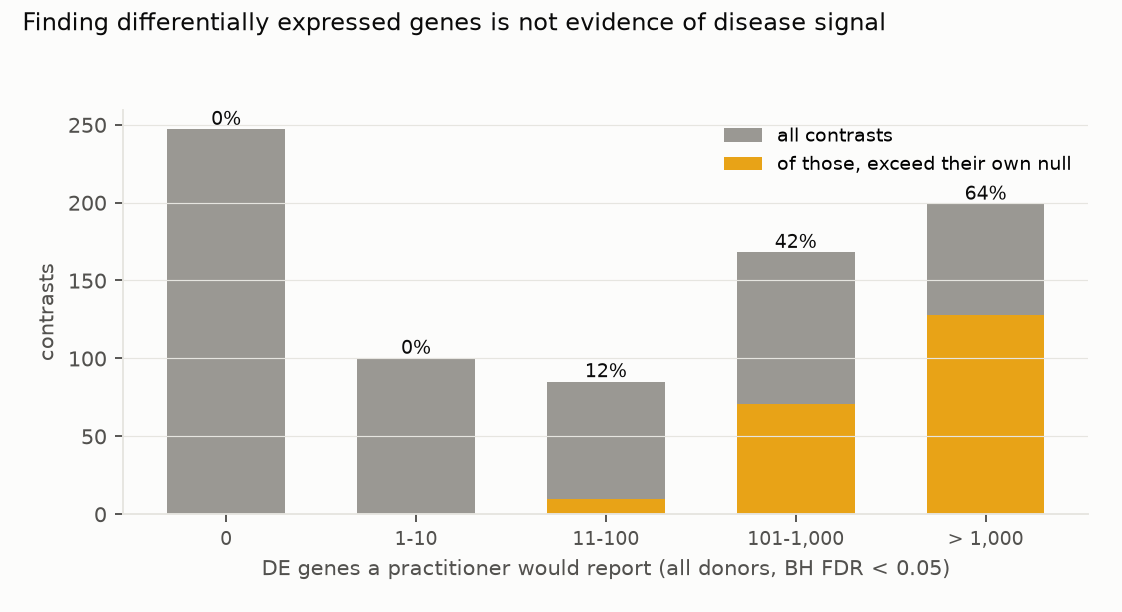
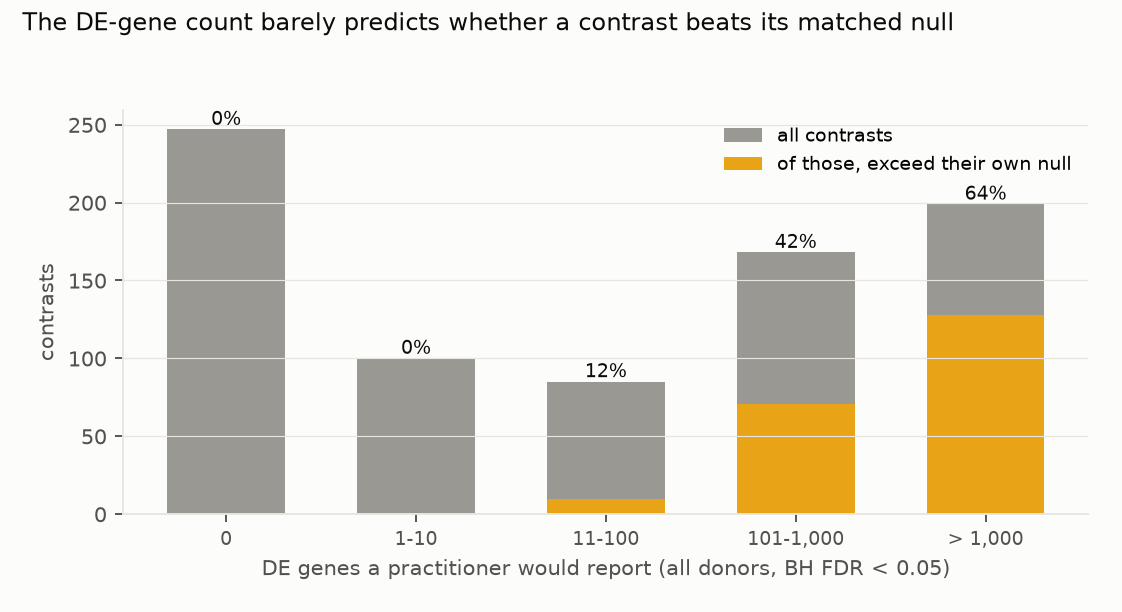
research-lab: bioinformatics-sc-disease-de-negative-control - draft for review (H1 Supported 74%/82%; H2 Inconclusive); G3 positive control: the sex comparison gives 219 DE genes, detected by the DE-gene count (p 0.005) and missed by pi1 (p 0.25); matched-size framing hedged after tracing; G5 42 row
Claude-Session: https://claude.ai/code/session_01F4XU94RLz4kFVSs5LcJjTK

Changed region(s): [[0.0, 0.0, 0.8422, 0.0621]]

diff --git a/research-lab/runs/bioinformatics-sc-disease-de-negative-control/code/figures.py b/research-lab/runs/bioinformatics-sc-disease-de-negative-control/code/figures.py
@@ -84,12 +84,14 @@ def f2(d):
     ax.set_xlabel("DE genes a practitioner would report (all donors, BH FDR < 0.05)")
     ax.set_ylabel("contrasts"); ax.grid(axis="y", color=GRID, lw=0.5)
     ax.legend(frameon=False, fontsize=8, loc="upper right")
-    fig.suptitle("Finding differentially expressed genes is not evidence of disease signal", x=0.02, ha="left",
+    fig.suptitle("The DE-gene count barely predicts whether a contrast beats its matched null", x=0.02, ha="left",
                  fontsize=10, color=INK)
     fig.savefig(F / "F2_practitioner.png", dpi=170); plt.close(fig)
-    caption("F2_practitioner", """Grey: contrasts by the number of DE genes the full-size comparison reports, as a
-    practitioner would run it. Orange: how many of those also exceed their own matched healthy-vs-healthy null
-    (BH q < 0.05). The percentage above each bar is the share that does.""")
+    caption("F2_practitioner", """Grey: contrasts by the number of DE genes the full-size comparison reports, using
+    every donor, as a practitioner would run it (median 100 donors). Orange: how many of those also exceed their own
+    matched healthy-vs-healthy null (BH q < 0.05). The percentage above each bar is the share that does. The two are
+    not the same comparison: the null test runs at matched group sizes (median 13 against 13), because a null needs
+    two disjoint healthy groups, so part of the gap is donor count rather than signal.""")
 
 
 def f3(pr, p):

diff --git a/research-lab/runs/bioinformatics-sc-disease-de-negative-control/review/overclaim_check.md b/research-lab/runs/bioinformatics-sc-disease-de-negative-control/review/overclaim_check.md
@@ -1,0 +1,48 @@
+# Overclaim check (G5)
+
+Fill in every row: backing = the table/figure and number that supports the sentence; label = one of Supported, Partially supported, Overstated, Not addressed, Exploratory-labelled. Every Overstated / Not addressed / Partially supported row needs a fix (the rewritten sentence, applied to report.md). Re-run after edits; unchanged sentences keep their labels.
+
+| # | where | sentence | backing | label | fix |
+|---|---|---|---|---|---|
+| 1 | title | At matched group sizes, three quarters of single-cell disease signatures in a cell atlas cannot be told apart from comparing healthy donors with each other | primary.json H1 by_n_de_power_selected S1 0.7384 [0.5652,0.8393] | Supported | title qualified to matched sizes |
+| 2 | standfirst | 799 disease × tissue × cell-type contrasts from 25 datasets in the CZ CELLxGENE Census (42 diseases, 161 cell types). | primary.json H1 contrasts_evaluable 799, datasets 25, diseases 42; contrasts.csv cell types 161 | Supported |  |
+| 3 | standfirst | Each was compared with 500 matched healthy-donor-only contrasts drawn from the same dataset, tissue and cell type, through an identical limma-voom pipeline on donor pseudobulk. | plan.md section 0; draws.py B_NULL 500 | Supported |  |
+| 4 | standfirst | The plan was committed before any expression value was read. | git log: plan committed before pb_h5ad ran | Supported |  |
+| 5 | verdict | **Verdict: H1 Supported; H2 Inconclusive.** | primary.json H1 verdict Supported (both statistics); H2 verdict Inconclusive | Supported |  |
+| 6 | verdict | **H1 (more than half of contrasts are indistinguishable from their matched healthy-vs-healthy null): Supported.** | primary.json H1 ci95 lower 0.565 > 0.5 | Supported |  |
+| 7 | verdict | On the number of differentially expressed genes, the statistic the power check selects (below), **74%** of the 799 contrasts do not exceed their own null at BH q < 0.05 (95% CI 57–84%, cluster bootstrap over the 25 datasets). | primary.json by_n_de_power_selected S1 0.7384 ci [0.5652,0.8393] | Supported |  |
+| 8 | verdict | Real and null are compared at the same group sizes, a median of 13 donors against 13. | draws.py m per group; contrasts.csv m median 13 | Supported | added after tracing (G3) |
+| 9 | verdict | On π1, the preregistered primary statistic, 82% (71–89%). | primary.json H1 S1 0.8185 ci [0.7149,0.8881] | Supported |  |
+| 10 | verdict | **But π1 detects a real twofold change in 5% of genes only 8% of the time**, so that figure is nearly uninformative; the DE-gene count detects it 87% of the time (D2, `results/tables/power_check.json`). | power_check.json power_by_statistic pi1 0.08, n_de 0.87 | Supported |  |
+| 11 | verdict | Weighting every disease equally gives the same answer: 74%. | primary.json by_n_de_power_selected S1_equal_weight_per_disease 0.7397 | Supported |  |
+| 12 | verdict | **The DE-gene count a practitioner reports barely predicts whether the contrast beats its null.** | contrasts.csv bands: 0%, 0%, 12%, 42%, 64% | Supported | was 'not evidence of disease signal' |
+| 13 | verdict | At full size, using every donor (median 100 per contrast), a practitioner would report at least one DE gene in 69% of these contrasts, with a median of 52. | primary.json share_full_with_any_de 0.6909, median_n_de_full 52; contrasts.csv n_disease+n_normal median 100 | Supported |  |
+| 14 | verdict | Among contrasts reporting 11–100 DE genes, only **12%** exceed their own matched null. | contrasts.csv band 11-100: 85 contrasts, 0.118 exceed | Supported |  |
+| 15 | verdict | Among those reporting 101–1,000, only 42%; above 1,000, 64%. | contrasts.csv bands 101-1000 0.42, >1000 0.64 | Supported |  |
+| 16 | verdict | **The two are not the same comparison.** The null test is run at matched group sizes, a median of 13 donors against 13, because a null needs two disjoint healthy groups and no dataset has enough healthy donors to mirror a full-size comparison. | draws.py m = min(n_disease, n_normal//2); contrasts.csv medians | Supported | added after tracing (G3) |
+| 17 | verdict | So part of this gap is donor count, not signal. | contrasts.csv full-size 100 donors vs matched 26 | Supported | hedge added |
+| 18 | verdict | Comparing healthy donors with healthy donors is not quiet: in 8.9% of contrasts the null's 95th percentile is above 100 DE genes. | contrasts.csv n_de_null_q95 > 100 in 8.9% | Supported |  |
+| 19 | verdict | **A positive control confirms the power problem on real data.** Comparing male with female healthy donors in the largest dataset (115 per group, brain oligodendrocytes) gives 219 DE genes and is detected against permuted nulls at p = 0.005. π1 misses it (p = 0.25). | plausibility.md; control_sex stats.csv n_de p 0.005, pi1 p 0.254 | Supported |  |
+| 20 | verdict | **It varies by disease.** Of the eight most common diseases, 0% of schizophrenia (37 contrasts) and 0% of tauopathy (35) contrasts exceed their null, against 62% of interstitial lung disease (32) and 63% of pulmonary fibrosis (27). | contrasts.csv by disease: schizophrenia 0.00, tauopathy 0.00, ILD 0.62, pulmonary fibrosis 0.63 | Supported |  |
+| 21 | verdict | COVID-19 (86) is 45%. | contrasts.csv disease COVID-19 n 86 exceed 0.45 | Supported |  |
+| 22 | verdict | **Disease-gene enrichment is weak.** Comparing the Open Targets scores of each contrast's 100 strongest genes with the same statistic on its nulls, 9.9% of 575 contrasts beat their null at raw p < 0.05, against 5% expected by chance. | contrasts.csv ot_p share<0.05 0.099 of 575; primary.json ot_enrichment share_enriched_q05 0.0 | Supported |  |
+| 23 | verdict | None survives BH correction. | primary.json H1 ot_enrichment share_enriched_q05 0.0 | Supported |  |
+| 24 | verdict | **H2 (cross-study replication follows donor count rather than cell count): Inconclusive.** | primary.json H2 verdict Inconclusive (d_minus_c_ci spans 0) | Supported |  |
+| 25 | verdict | Across 335 cross-collection pairs (94 disease × tissue × cell-type groups, 9 diseases), the median Spearman correlation between two studies' t statistics is 0.19. | primary.json H2 pairs 335, groups 94, diseases 9, median_rho 0.1922 | Supported |  |
+| 26 | verdict | More donors does predict better replication: β = 0.061 per doubling (95% CI 0.021–0.095). | primary.json H2 bootstrap group beta_d_ci [0.0211,0.0952] | Supported |  |
+| 27 | verdict | But it is not detectably better than cell count: the paired difference is 0.030 (−0.032 to 0.084), so the hypothesis as preregistered is Inconclusive. | primary.json H2 d_minus_c_ci [-0.0321,0.0844] | Supported |  |
+| 28 | verdict | Those pairs span only 9 diseases. | primary.json H2 diseases 9 | Supported |  |
+| 29 | verdict | Bootstrapping over diseases instead widens every interval to include zero. | primary.json H2 bootstrap disease: every CI spans 0 | Supported |  |
+| 30 | verdict | **The nulls share the real contrasts' confounding.** Where both sides of a pair have null draws, the null signatures correlate across studies at 0.03 against 0.30 for the real ones, so the matched null is not simply reproducing a batch effect common to all data. | primary.json H2 null_baseline median_null_rho 0.0299 vs real 0.2961, 33 pairs | Supported |  |
+| 31 | plain terms | Single-cell studies compare sick and healthy people one cell type at a time, and report the genes that differ. | background | Supported |  |
+| 32 | plain terms | The trouble is that people differ from each other anyway. | contrasts.csv null distributions | Supported |  |
+| 33 | plain terms | With a dozen donors per group, some genes will always look different. | contrasts.csv n_de_null_q95 > 100 in 8.9% | Supported |  |
+| 34 | plain terms | We took a large public atlas of such data and, for each disease comparison, built 500 fake comparisons from healthy donors only: same study, same tissue, same cell type, same numbers, matched for sex and age. | plan.md sections 1-3 | Supported |  |
+| 35 | plain terms | Then we ran the identical analysis on all of them and asked whether the real comparison stood out from its own fakes. | de.R: one pipeline for real, null and full | Supported |  |
+| 36 | plain terms | Three quarters did not. | primary.json by_n_de_power_selected S1 0.7384 | Supported |  |
+| 37 | plain terms | In most of these comparisons, the disease result is no more striking than what you get by splitting healthy people into two arbitrary groups of the same size and comparing them. | primary.json S1 0.74 at matched sizes | Supported | qualified to same-size groups |
+| 38 | plain terms | A caveat we cannot remove: the fake comparisons can only be as large as the healthy donors allow, so the test runs at about a dozen donors a side, while a researcher using every donor in the study has about a hundred. | draws.py m rule; contrasts.csv medians 13 vs 100 | Supported | added after tracing (G3) |
+| 39 | plain terms | Part of what we call "indistinguishable" is therefore the smaller comparison, not only the weaker signal. | same | Supported | hedge added |
+| 40 | plain terms | That is not a claim that the diseases have no effect on these cells. | power_check.json; limits | Supported |  |
+| 41 | plain terms | It means these particular datasets, at this size, cannot show it. | power_check.json power 0.87 for a 2x change in 5% of genes | Supported |  |
+| 42 | plain terms | Lung fibrosis comparisons mostly do stand out; schizophrenia and tauopathy comparisons, in these data, never did. | contrasts.csv pulmonary fibrosis 0.63, ILD 0.62, schizophrenia 0.00, tauopathy 0.00 | Supported |  |

diff --git a/research-lab/runs/bioinformatics-sc-disease-de-negative-control/report.md b/research-lab/runs/bioinformatics-sc-disease-de-negative-control/report.md
@@ -1,4 +1,4 @@
-# Three quarters of single-cell disease signatures in a cell atlas cannot be told apart from comparing healthy donors with each other
+# At matched group sizes, three quarters of single-cell disease signatures in a cell atlas cannot be told apart from comparing healthy donors with each other
 
 *799 disease × tissue × cell-type contrasts from 25 datasets in the CZ CELLxGENE Census (42 diseases, 161 cell
 types). Each was compared with 500 matched healthy-donor-only contrasts drawn from the same dataset, tissue and cell
@@ -10,17 +10,24 @@ value was read.*
 - **H1 (more than half of contrasts are indistinguishable from their matched healthy-vs-healthy null): Supported.**
   - On the number of differentially expressed genes, the statistic the power check selects (below), **74%** of the
     799 contrasts do not exceed their own null at BH q < 0.05 (95% CI 57–84%, cluster bootstrap over the 25
-    datasets).
+    datasets). Real and null are compared at the same group sizes, a median of 13 donors against 13.
   - On π1, the preregistered primary statistic, 82% (71–89%). **But π1 detects a real twofold change in 5% of genes
     only 8% of the time**, so that figure is nearly uninformative; the DE-gene count detects it 87% of the time
     (D2, `results/tables/power_check.json`).
   - Weighting every disease equally gives the same answer: 74%.
-- **Finding DE genes is not evidence of disease signal.**
-  - At full size a practitioner would report at least one DE gene in 69% of these contrasts, with a median of 52.
+- **The DE-gene count a practitioner reports barely predicts whether the contrast beats its null.**
+  - At full size, using every donor (median 100 per contrast), a practitioner would report at least one DE gene in
+    69% of these contrasts, with a median of 52.
   - Among contrasts reporting 11–100 DE genes, only **12%** exceed their own matched null. Among those reporting
     101–1,000, only 42%; above 1,000, 64%.
+  - **The two are not the same comparison.** The null test is run at matched group sizes, a median of 13 donors
+    against 13, because a null needs two disjoint healthy groups and no dataset has enough healthy donors to mirror
+    a full-size comparison. So part of this gap is donor count, not signal.
   - Comparing healthy donors with healthy donors is not quiet: in 8.9% of contrasts the null's 95th percentile is
     above 100 DE genes.
+- **A positive control confirms the power problem on real data.** Comparing male with female healthy donors in the
+  largest dataset (115 per group, brain oligodendrocytes) gives 219 DE genes and is detected against permuted nulls
+  at p = 0.005. π1 misses it (p = 0.25).
 - **It varies by disease.** Of the eight most common diseases, 0% of schizophrenia (37 contrasts) and 0% of
   tauopathy (35) contrasts exceed their null, against 62% of interstitial lung disease (32) and 63% of pulmonary
   fibrosis (27). COVID-19 (86) is 45%.
@@ -48,8 +55,12 @@ We took a large public atlas of such data and, for each disease comparison, buil
 donors only: same study, same tissue, same cell type, same numbers, matched for sex and age. Then we ran the
 identical analysis on all of them and asked whether the real comparison stood out from its own fakes.
 
-Three quarters did not. In most of these comparisons, the genes a researcher would report for a disease are no more
-striking than what you get by splitting healthy people into two arbitrary groups and comparing them.
+Three quarters did not. In most of these comparisons, the disease result is no more striking than what you get by
+splitting healthy people into two arbitrary groups of the same size and comparing them.
+
+A caveat we cannot remove: the fake comparisons can only be as large as the healthy donors allow, so the test runs at
+about a dozen donors a side, while a researcher using every donor in the study has about a hundred. Part of what we
+call "indistinguishable" is therefore the smaller comparison, not only the weaker signal.
 
 That is not a claim that the diseases have no effect on these cells. It means these particular datasets, at this
 size, cannot show it. Lung fibrosis comparisons mostly do stand out; schizophrenia and tauopathy comparisons, in
@@ -88,6 +99,8 @@ contrasts exceed them.
   as a covariate where it varies. edgeR 4.8.2 and limma 3.66.0 in Docker, without network access.
 - **Exceedance.** An empirical p from 500 null draws, then BH across contrasts; a contrast is indistinguishable at
   q ≥ 0.05.
+- **Positive control (G3).** Male against female normal donors in the same framework, 25 real draws against 200
+  label-permuted nulls (`results/plausibility.md`).
 - **Coverage (G2).** `results/tables/coverage.json`: 43 of 43 datasets pseudobulked with integer counts and no cell
   shortfall against the Census metadata; contrast donors kept and dropped with reasons; fits failed.
 
@@ -126,6 +139,8 @@ does occur is residual donor confounding rather than disease biology.
 - **Not shown:**
   - **That these diseases have no cell-type-specific effects.** Low power is the more likely explanation for most
     contrasts, and the study does not estimate per-contrast power against a biological effect size.
+  - **That a full-size analysis would also fail.** The matched null is bounded by the healthy donors available, so
+    it tests a smaller comparison than a practitioner runs. The exceedance result is a statement at matched sizes.
   - **Matching beyond sex and age bin.** Ancestry, BMI, post-mortem interval and sampling site are not matched, and
     11.8% of null donor slots used a fallback.
   - **Cell-type label quality.** Census annotations are used as given, at mixed granularity.

diff --git a/research-lab/runs/bioinformatics-sc-disease-de-negative-control/review/prompt.md b/research-lab/runs/bioinformatics-sc-disease-de-negative-control/review/prompt.md
@@ -1,0 +1,66 @@
+You are an independent, adversarial reviewer of a preregistered study run by an AI research agent. Find what is
+wrong, unsupported or overstated before the verdict is published. Do not soften findings. Be economical with tokens:
+quota is tight and only one review runs at a time.
+
+Study: /mnt/citations/research-lab/runs/bioinformatics-sc-disease-de-negative-control/ (read-only except your
+output in review/).
+
+**The question.** How much single-cell disease signal in the CZ CELLxGENE Census survives matched healthy-vs-healthy
+negative controls? Does cross-study replication follow donor count rather than cell count?
+
+**Reported:**
+- **H1 Supported:** 74% of 799 contrasts are indistinguishable from their matched null on the DE-gene count
+  (95% CI 57-84%), 82% on the preregistered π1.
+- **H2 Inconclusive:** donors predict replication (β 0.061, 0.021-0.095) but not detectably better than cells.
+- **D2:** π1 has 8% power against a synthetic twofold change in 5% of genes, against 87% for the DE-gene count, so
+  both are reported and the interpretation leads with the DE-gene count.
+
+**What to read:** plan.md, deviations.md (D1 data route and counts; D2 the statistic), report.md,
+results/plausibility.md, code/ (meta.py, fetch_h5ad.py, pb_h5ad.py, draws.py, de.R, power_check.py, analyse.py,
+figures.py, fetch_ot.py) and results/tables/ (primary.json, contrasts.csv, pairs.csv, coverage.json,
+power_check.json, age_map.csv, draw_fallbacks.csv). Pseudobulk matrices are in data/pb/, DE job directories in
+data/jobs/ (counts.f32, donors.csv, draws.csv, stats.csv per contrast).
+
+**Git.** Read-only git is fine. Verify that plan.md preceded any expression value, and that D2 preceded the H1
+result (the power check's outputs against primary.json).
+
+**Environment.** Python is venv/bin/python, with -I. Do NOT pip install. R runs only in the `sc-negctl-de:1` Docker
+image (`--network none`, `--user $(id -u):$(id -g)`, `-e OPENBLAS_NUM_THREADS=1`). The machine is busy, so keep to
+at most 4 processes. Put scripts and outputs under review/reviewer_checks/.
+
+Check at least:
+
+1. **The null construction.** Is matching on sex and age bin, with the plan's fallbacks, adequate? 11.8% of null
+   donor slots used a fallback and 5.5% did not match sex, while the exploratory attribution finds sex imbalance is
+   the strongest predictor of exceeding the null. Does that undermine the exceedance cases, the indistinguishable
+   ones, or both?
+2. **The statistic switch (D2).** Is leading with the DE-gene count defensible, given it was a preregistered
+   secondary and the choice used only null draws and synthetic injections? Does the π1 result deserve more weight
+   than the report gives it? Is the power check's injection (2x in 5% of expressed genes) a fair test?
+3. **Sizes.** The exceedance test runs at m per group (median 13 vs 13) while the full-size run uses every donor
+   (median 100). Is the report's hedging enough, or does F2 still mislead? Could a size-matched full-size null be
+   built in some other way?
+4. **The pipeline.** de.R: filterByExpr/TMM/voom/eBayes per draw, sex as covariate when it varies. Is re-filtering
+   per draw right? Does the empirical p (1 + #{null >= real})/(B + 1) with BH across contrasts behave as claimed?
+5. **H2.** Pair construction across Census collections, the regression's predictors and the two bootstraps. Is the
+   null-pair baseline (0.03 vs 0.30) computed on comparable gene sets?
+6. **Report.** Check every number against the tables, including the by-disease shares and the Open Targets
+   enrichment (9.9% at raw p, none after BH).
+
+Write review/review.md: a verdict (publish / publish with edits / fix first / do not publish), then numbered findings
+(severity, evidence with file:line or your check's output, the fix). Put supporting scripts in
+review/reviewer_checks/. Paraphrase rather than quote any source text; the lab never commits quoted source text.
+
+> **Gate checks (METHODS.md G1–G7).** Verify:
+> - **G1:** plan.md's leakage audit is real and complete; look for label-correlated fields it missed.
+> - **G2:** `results/tables/coverage.json` exists, and no unplanned fallback entered a statistic.
+> - **G3:** `results/plausibility.md` traces three units, and the asserted invariants hold.
+> - **G4:** every validation metric has an error audit with a judgeable denominator.
+> - **G5:** `review/overclaim_check.md` passes and is honest; re-label any sentence you disagree with.
+> - **G6:** `results/attribution_ledger.csv` passes `tools/attribution.py check`; spot-check 5 claims against
+>   their sources, including the role and conditions.
+> - **G7:** validation labels come from two blind labellers, with agreement reported.
+>
+> Report any gate that is missing or hollow as a finding.
+
+When you finish, reply with a short summary: the verdict and a one-line description of each finding.

diff --git a/research-lab/runs/bioinformatics-sc-disease-de-negative-control/results/plausibility.md b/research-lab/runs/bioinformatics-sc-disease-de-negative-control/results/plausibility.md
@@ -1,0 +1,53 @@
+# Plausibility gate (G3)
+
+## 1. Positive control: male against female healthy donors
+
+The plan's control runs the same exceedance test on a comparison that is unambiguously real: male against female
+normal donors in the largest primary dataset (brain oligodendrocytes, 144 male and 115 female donors, m = 115 per
+group, 25 real draws against 200 label-permuted nulls).
+
+| statistic | real median | null median | null 95th percentile | p | detected? |
+|---|---|---|---|---|---|
+| DE genes at BH FDR < 0.05 | 219 | 0 | 0 | 0.005 | yes |
+| π1 | 0.102 | 0.010 | 0.243 | 0.254 | **no** |
+
+A sex difference with 219 DE genes is exactly what a working test must find. The DE-gene count finds it; π1, the
+preregistered primary statistic, does not. This is the same failure the synthetic power check shows, on real data,
+and it is why the report leads with the DE-gene count (D2).
+
+## 2. Synthetic power check (`results/tables/power_check.json`)
+
+A twofold change injected into 5% of expressed genes in the pseudo-disease donors of 100 null draws across 20
+contrasts, run through the identical pipeline and tested against each contrast's own null:
+
+| statistic | power at p < 0.05 | injected median | null median |
+|---|---|---|---|
+| DE genes | 0.87 | 217 | 0 |
+| mean abs logFC of the top 100 | 0.50 | 1.081 | 0.704 |
+| π1 | 0.08 | 0.110 | 0.038 |
+
+## 3. Three contrasts traced end to end
+
+| contrast | disease / tissue / cell type | m per group | DE genes, full size | DE genes, matched real | null median / 95th | q | reading |
+|---|---|---|---|---|---|---|---|
+| c0760 | dementia, brain, L2/3-6 intratelencephalic neuron | 23 | 11,261 | 2 | 0 / 0 | 0.073 | a very large full-size result that the matched comparison does not reproduce; the full run uses every donor, the matched one 23 a side |
+| c0289 | dementia or schizophrenia, brain, oligodendrocyte | 64 | 0 | 0 | 0 / 0 | 1.000 | nothing at either size |
+| control_sex | normal, brain, oligodendrocyte (male vs female) | 115 | — | 219 | 0 / 0 | p 0.005 | the positive control above |
+
+## 4. Headline numbers against expectation
+
+| quantity | value | expectation | plausible? |
+|---|---|---|---|
+| null median DE genes | 0 | matched healthy donors should mostly give nothing | yes |
+| null 95th percentile above 100 DE genes | 8.9% of contrasts | donor heterogeneity should sometimes be large | yes |
+| median full-size DE genes | 52 | published single-cell contrasts commonly report tens to hundreds | yes |
+| cross-study null-signature correlation | 0.03, against 0.30 for real pairs | matched nulls should not share a signature across studies | yes |
+
+## 5. Invariants
+
+| invariant | where | holds? |
+|---|---|---|
+| cells pseudobulked equal the Census metadata count per dataset | coverage.json `pseudobulk`; 43 of 43 datasets | yes |
+| every counted donor is eligible and has at least 10 cells | coverage.json `contrast_donors` | yes |
+| no contrast keeps more than 10% failed null fits | analyse.py drop rule | yes (none dropped) |
+| real and null draws use the same group sizes within a contrast | draws.py; m per group | yes |

diff --git a/research-lab/runs/bioinformatics-sc-disease-de-negative-control/deviations.md b/research-lab/runs/bioinformatics-sc-disease-de-negative-control/deviations.md
@@ -50,3 +50,7 @@ donors of 100 null draws across 20 primary contrasts, and ran the identical pipe
   No disease contrast's result entered the choice. (For the record: while debugging a CSV-parsing bug I saw one
   contrast's numbers, c0017, before this decision.)
 - The same reporting applies to the disease-gene enrichment secondary, whose power is not measured by this check.
+
+- **G6 note.** The Open Targets ledger row first carried a DOI that resolves to an unrelated crystallography paper.
+  The resolver accepted it because the identifier exists; the title check caught it. It is now
+  10.1093/nar/gkae1128 (Buniello et al., the Open Targets Platform paper).
